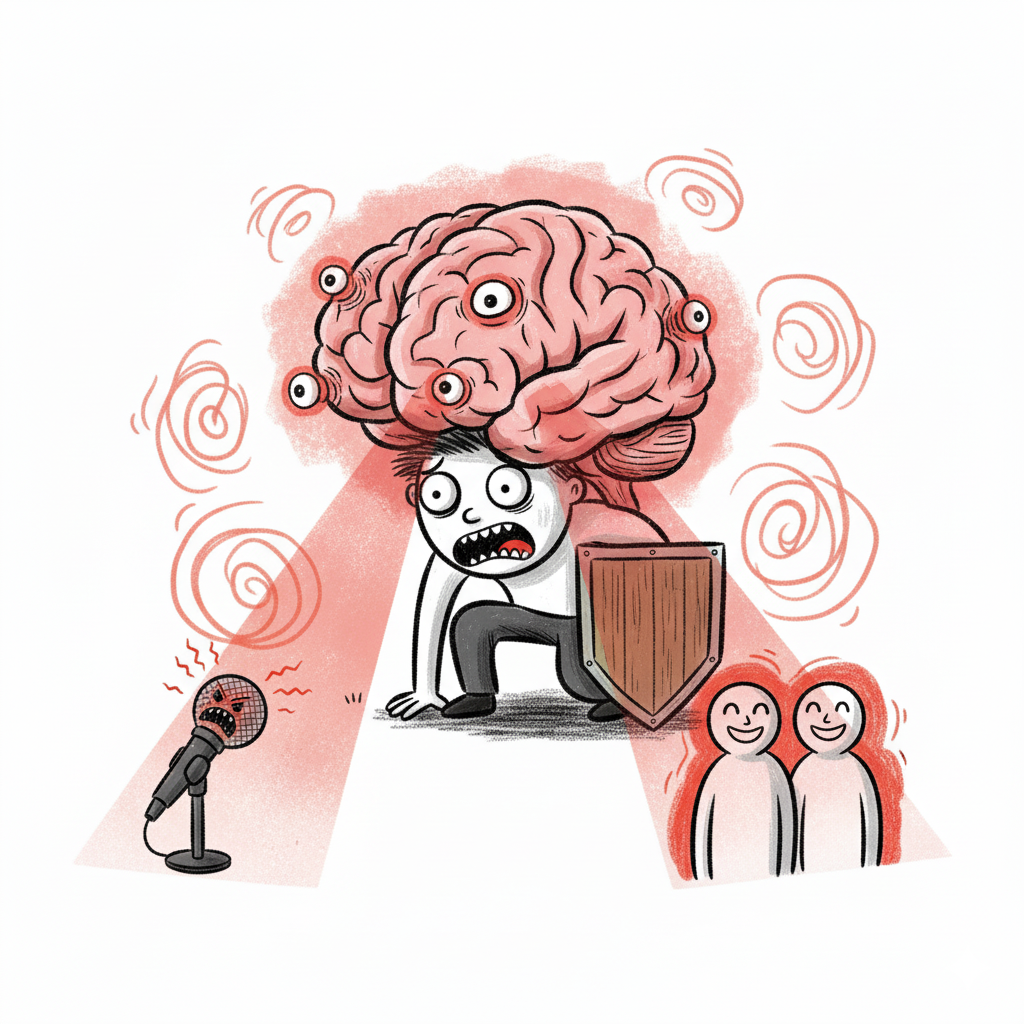
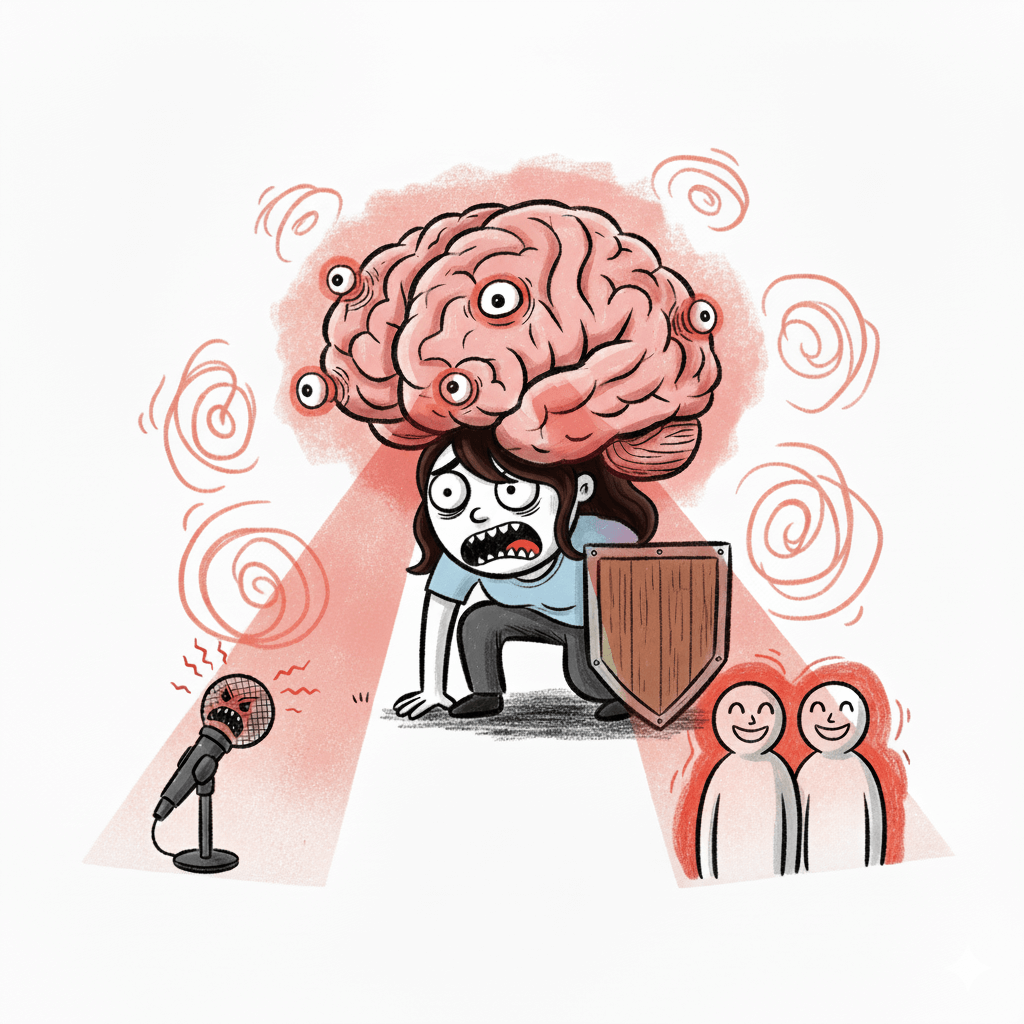
Обновить все картинки модуля 1 дня 1
- Обновлены картинки d1m1_1.png, d1m1_2.png, d1m1_3.png (перезагружены)
- Добавлены новые картинки d1m1_4.png до d1m1_11.png
- Обновлены все функции переходов между шагами 4-11 для отправки картинок
- Теперь все 11 шагов диалога отправляются с соответствующими изображениями
- Использован FSInputFile для корректной отправки всех изображений
- Полностью визуализирован весь диалог модуля 1 дня 1

Changed region(s): [[0.125, 0.125, 0.9062, 0.875], [0.3125, 0.75, 0.3438, 0.8438]]

diff --git a/handlers/modules/day_1_module_1.py b/handlers/modules/day_1_module_1.py
@@ -181,8 +181,17 @@ async def step_2_to_3(message: Message, state: FSMContext):
 async def step_3_to_4(message: Message, state: FSMContext):
     """Переход от шага 3 к шагу 4."""
     await state.set_state(Day1Module1States.step_4)
-    await message.answer(
-        "Представь ситуацию: завтра собеседование. Всё идёт нормально, но сердце начинает биться быстрее ❤🔥 ладони потеют, мысли скачут. Это не потому, что что-то плохое случилось — так тело готовит тебя к «битве».",
+    
+    # Отправляем картинку с текстом
+    import os
+    from aiogram.types import FSInputFile
+    
+    image_path = os.path.join(os.path.dirname(os.path.dirname(os.path.dirname(__file__))), "assets", "d1m1_4.png")
+    image_file = FSInputFile(image_path)
+    
+    await message.answer_photo(
+        photo=image_file,
+        caption="Представь ситуацию: завтра собеседование. Всё идёт нормально, но сердце начинает биться быстрее ❤🔥 ладони потеют, мысли скачут. Это не потому, что что-то плохое случилось — так тело готовит тебя к «битве».",
         reply_markup=get_step_keyboard(4)
     )
 
@@ -191,8 +200,17 @@ async def step_3_to_4(message: Message, state: FSMContext):
 async def step_4_to_5(message: Message, state: FSMContext):
     """Переход от шага 4 к шагу 5."""
     await state.set_state(Day1Module1States.step_5)
-    await message.answer(
-        "И вот главный момент 👉 тревога — это не признак слабости. Это просто сигнал: «Внимание, может быть что-то важное». Она пытается мобилизовать силы, даже если ситуация не такая уж и опасная.",
+    
+    # Отправляем картинку с текстом
+    import os
+    from aiogram.types import FSInputFile
+    
+    image_path = os.path.join(os.path.dirname(os.path.dirname(os.path.dirname(__file__))), "assets", "d1m1_5.png")
+    image_file = FSInputFile(image_path)
+    
+    await message.answer_photo(
+        photo=image_file,
+        caption="И вот главный момент 👉 тревога — это не признак слабости. Это просто сигнал: «Внимание, может быть что-то важное». Она пытается мобилизовать силы, даже если ситуация не такая уж и опасная.",
         reply_markup=get_step_keyboard(5)
     )
 
@@ -201,8 +219,17 @@ async def step_4_to_5(message: Message, state: FSMContext):
 async def step_5_to_6(message: Message, state: FSMContext):
     """Переход от шага 5 к шагу 6."""
     await state.set_state(Day1Module1States.step_6)
-    await message.answer(
-        "Проблема в том, что тревога часто перебарщивает 🙃 Она включает режим «всё горит», когда достаточно было бы маленькой лампочки. Поэтому важно учиться регулировать её громкость.",
+    
+    # Отправляем картинку с текстом
+    import os
+    from aiogram.types import FSInputFile
+    
+    image_path = os.path.join(os.path.dirname(os.path.dirname(os.path.dirname(__file__))), "assets", "d1m1_6.png")
+    image_file = FSInputFile(image_path)
+    
+    await message.answer_photo(
+        photo=image_file,
+        caption="Проблема в том, что тревога часто перебарщивает 🙃 Она включает режим «всё горит», когда достаточно было бы маленькой лампочки. Поэтому важно учиться регулировать её громкость.",
         reply_markup=get_step_keyboard(6)
     )
 
@@ -211,8 +238,17 @@ async def step_5_to_6(message: Message, state: FSMContext):
 async def step_6_to_7(message: Message, state: FSMContext):
     """Переход от шага 6 к шагу 7."""
     await state.set_state(Day1Module1States.step_7)
-    await message.answer(
-        "И это хорошая новость 😊 Мы можем научиться дружить с тревогой. Не подавлять её, не гнать прочь, а относиться как к сигналу, который можно приглушить и направить в нужное русло.",
+    
+    # Отправляем картинку с текстом
+    import os
+    from aiogram.types import FSInputFile
+    
+    image_path = os.path.join(os.path.dirname(os.path.dirname(os.path.dirname(__file__))), "assets", "d1m1_7.png")
+    image_file = FSInputFile(image_path)
+    
+    await message.answer_photo(
+        photo=image_file,
+        caption="И это хорошая новость 😊 Мы можем научиться дружить с тревогой. Не подавлять её, не гнать прочь, а относиться как к сигналу, который можно приглушить и направить в нужное русло.",
         reply_markup=get_step_keyboard(7)
     )
 
@@ -221,8 +257,17 @@ async def step_6_to_7(message: Message, state: FSMContext):
 async def step_7_to_8(message: Message, state: FSMContext):
     """Переход от шага 7 к шагу 8."""
     await state.set_state(Day1Module1States.step_8)
-    await message.answer(
-        "Первый способ регулировать тревогу — дыхание 🌬 Это самый простой инструмент, который всегда с тобой. Через дыхание мы можем успокоить нервную систему и вернуть контроль над состоянием.",
+    
+    # Отправляем картинку с текстом
+    import os
+    from aiogram.types import FSInputFile
+    
+    image_path = os.path.join(os.path.dirname(os.path.dirname(os.path.dirname(__file__))), "assets", "d1m1_8.png")
+    image_file = FSInputFile(image_path)
+    
+    await message.answer_photo(
+        photo=image_file,
+        caption="Первый способ регулировать тревогу — дыхание 🌬 Это самый простой инструмент, который всегда с тобой. Через дыхание мы можем успокоить нервную систему и вернуть контроль над состоянием.",
         reply_markup=get_step_keyboard(8)
     )
 
@@ -231,8 +276,17 @@ async def step_7_to_8(message: Message, state: FSMContext):
 async def step_8_to_9(message: Message, state: FSMContext):
     """Переход от шага 8 к шагу 9."""
     await state.set_state(Day1Module1States.step_9)
-    await message.answer(
-        "Заметь: когда ты тревожишься, дыхание становится быстрым и поверхностным. Это запускает цепочку «больше кислорода → быстрее сердце → сильнее тревога». Если дыхание замедлить, тревога снижается 🔇",
+    
+    # Отправляем картинку с текстом
+    import os
+    from aiogram.types import FSInputFile
+    
+    image_path = os.path.join(os.path.dirname(os.path.dirname(os.path.dirname(__file__))), "assets", "d1m1_9.png")
+    image_file = FSInputFile(image_path)
+    
+    await message.answer_photo(
+        photo=image_file,
+        caption="Заметь: когда ты тревожишься, дыхание становится быстрым и поверхностным. Это запускает цепочку «больше кислорода → быстрее сердце → сильнее тревога». Если дыхание замедлить, тревога снижается 🔇",
         reply_markup=get_step_keyboard(9)
     )
 
@@ -241,8 +295,17 @@ async def step_8_to_9(message: Message, state: FSMContext):
 async def step_9_to_10(message: Message, state: FSMContext):
     """Переход от шага 9 к шагу 10."""
     await state.set_state(Day1Module1States.step_10)
-    await message.answer(
-        "Попробуем прямо сейчас 👌 Сделай вдох на 4 секунды, а выдох — на 6. Повтори два круга. Считай в уме или по пальцам — это помогает держать ритм.",
+    
+    # Отправляем картинку с текстом
+    import os
+    from aiogram.types import FSInputFile
+    
+    image_path = os.path.join(os.path.dirname(os.path.dirname(os.path.dirname(__file__))), "assets", "d1m1_10.png")
+    image_file = FSInputFile(image_path)
+    
+    await message.answer_photo(
+        photo=image_file,
+        caption="Попробуем прямо сейчас 👌 Сделай вдох на 4 секунды, а выдох — на 6. Повтори два круга. Считай в уме или по пальцам — это помогает держать ритм.",
         reply_markup=get_step_keyboard(10)
     )
 
@@ -251,8 +314,17 @@ async def step_9_to_10(message: Message, state: FSMContext):
 async def step_10_to_11(message: Message, state: FSMContext):
     """Переход от шага 10 к шагу 11."""
     await state.set_state(Day1Module1States.step_11)
-    await message.answer(
-        "Хорошо 👏 Обрати внимание: после этих нескольких дыханий тело чуть расслабляется, мысли становятся спокойнее. Это простой, но мощный способ «снизить громкость» тревоги.",
+    
+    # Отправляем картинку с текстом
+    import os
+    from aiogram.types import FSInputFile
+    
+    image_path = os.path.join(os.path.dirname(os.path.dirname(os.path.dirname(__file__))), "assets", "d1m1_11.png")
+    image_file = FSInputFile(image_path)
+    
+    await message.answer_photo(
+        photo=image_file,
+        caption="Хорошо 👏 Обрати внимание: после этих нескольких дыханий тело чуть расслабляется, мысли становятся спокойнее. Это простой, но мощный способ «снизить громкость» тревоги.",
         reply_markup=get_step_keyboard(11)
     )
 
